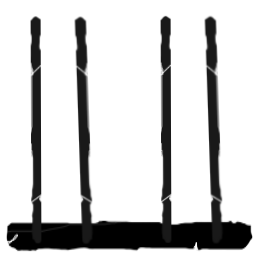
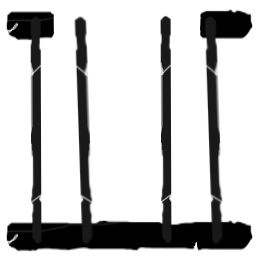
first gun

Changed region(s): [[0.7812, 0.0312, 1.0, 0.1562], [0.0, 0.0312, 0.2188, 0.1562]]

diff --git a/GameProject/GameLogic/Scripts/MachineParts/ShellHummerFactory.cs b/GameProject/GameLogic/Scripts/MachineParts/ShellHummerFactory.cs
@@ -7,18 +7,15 @@ using GameProject.GameMath;
 
 namespace GameProject.GameLogic.Scripts.MachineParts
 {
-    internal class WoodenPipeFactory : IMachinePartFactory
+    internal class ShellHummerFactory : IMachinePartFactory
     {
-        public string TexturePath => "Resources/machine_parts/wooden_pipe.png";
-        public bool HasBoxCollision => false;
+        public string TexturePath => "Resources/machine_parts/shell_hammer.png";
+        public bool HasBoxCollision => true;
         public bool Connectible => true;
-
-        public const float Width = 0.5f - BombFactory.Radius;
-
+        
         public void CreatePart(Vector2F cellPosition, float rotation, GameState gameState, GameEntity machine)
         {
             var sprite = machine.GetComponent<Sprite>();
-            var body = machine.GetComponent<PhysicsBody>();
             sprite.AddShape(gameState, new QuadRenderShape(1)
             {
                 ImagePath = TexturePath,
@@ -26,22 +23,7 @@ namespace GameProject.GameLogic.Scripts.MachineParts
                 Scale = Vector2F.One * MachineEditor.CellSize,
                 Rotation = rotation
             });
-            const float colliderOffset = 0.5f - Width * 0.5f;
-
-            var size = new Vector2F(1, Width).Rotate(rotation) * MachineEditor.CellSize;
-            var offset = colliderOffset * MachineEditor.CellSize * Vector2F.UnitY.Rotate(rotation);
-            body.AddCollider(new BoxCollider
-            {
-                Offset = cellPosition + offset,
-                Scaled = false,
-                Size = size
-            });
-            body.AddCollider(new BoxCollider
-            {
-                Offset = cellPosition - offset,
-                Scaled = false,
-                Size = size
-            });
+            machine.GetOrAddComponent<ShellHummerScript>().Hummers.Add(cellPosition);
         }
 
         public void CleanUp()
@@ -50,11 +32,11 @@ namespace GameProject.GameLogic.Scripts.MachineParts
 
         public GameEntity CreateDestroyedPart(Vector2F position, float rotation)
         {
-            var entity = new GameEntity {Position = position, Rotation = rotation};
+            var entity = new GameEntity{Position = position, Rotation = rotation};
             entity.AddComponent(new Explosive
             {
                 ForceExplodeOnStart = true,
-                ExplosionFragCount = 5,
+                ExplosionFragCount = 20,
                 ExplosionRadius = 1,
                 ExplosionFragImpulse = 0.01f,
                 MinLifetime = 2f,

diff --git a/GameProject/GameLogic/Scripts/ShellScript.cs b/GameProject/GameLogic/Scripts/ShellScript.cs
@@ -1,0 +1,66 @@
+using System;
+using System.Collections.Generic;
+using System.Linq;
+using FarseerPhysics.Dynamics;
+using FarseerPhysics.Dynamics.Joints;
+using FarseerPhysics.Factories;
+using GameProject.CoreEngine;
+using GameProject.Ecs;
+using GameProject.Ecs.Graphics;
+using GameProject.Ecs.Physics;
+using GameProject.GameGraphics.RenderShapes;
+using GameProject.GameMath;
+using Microsoft.Xna.Framework;
+
+namespace GameProject.GameLogic.Scripts
+{
+    internal class ShellScript : GameScript
+    {
+        public Vector2F Impulse { get; set; }
+
+        public event Action OnExplode;
+
+        public static readonly List<GameEntity> Shells = new List<GameEntity>();
+
+        private Body bodyA;
+        private Joint joint;
+        
+        public bool Exploded { get; set; }
+
+        protected override void Update()
+        {
+            var raycastDir = Impulse.Normalized * MachineEditor.CellSize * 0.55f;
+            if (bodyA is null)
+                GameState.PhysicsWorld.RayCast(ConnectProjectile, Entity.Position,
+                    Entity.Position + raycastDir.Rotate(Entity.Rotation));
+            if (!Exploded) return;
+
+            Entity.Destroy();
+            if (bodyA != null && joint != null)
+            {
+                GameState.PhysicsWorld.RemoveJoint(joint);
+                bodyA.ApplyLinearImpulse(Impulse);
+                Entity.GetComponent<PhysicsBody>().ApplyLinearImpulse(-Impulse);
+            }
+            OnExplode?.Invoke();
+        }
+
+        public override void Destroy(GameState state)
+        {
+            var shell = LevelUtility.CreatePhysicalRectangle(Entity.Position,
+                MachineEditor.CellSize * Vector2F.One * 0.9f, false, 1, false);
+            if (shell.GetComponent<Sprite>().Shapes.First() is QuadRenderShape shape)
+                shape.ImagePath = "Resources/machine_parts/shell.png";
+            GameState.AddEntity(shell);
+        }
+
+        private float ConnectProjectile(Fixture fixture, Vector2 point1, Vector2 point2, float d)
+        {
+            bodyA = fixture.Body;
+            var bodyB = Entity.GetComponent<PhysicsBody>().FarseerBody;
+            joint = JointFactory.CreateDistanceJoint(GameState.PhysicsWorld, bodyA,
+                bodyB, bodyA.Position, bodyB.Position);
+            return 0.0f;
+        }
+    }
+}

diff --git a/GameProject/GameLogic/Scripts/MachineParts/OpenWoodenPipeFactory.cs b/GameProject/GameLogic/Scripts/MachineParts/OpenWoodenPipeFactory.cs
@@ -13,8 +13,6 @@ namespace GameProject.GameLogic.Scripts.MachineParts
         public bool HasBoxCollision => false;
         public bool Connectible => true;
 
-        private const float Width = 0.1f;
-
         public void CreatePart(Vector2F cellPosition, float rotation, GameState gameState, GameEntity machine)
         {
             var sprite = machine.GetComponent<Sprite>();
@@ -26,13 +24,32 @@ namespace GameProject.GameLogic.Scripts.MachineParts
                 Scale = Vector2F.One * MachineEditor.CellSize,
                 Rotation = rotation
             });
-            const float colliderOffset = 0.5f - Width * 0.5f;
+            const float colliderOffsetY = 0.5f - WoodenPipeFactory.Width * 0.5f;
+            const float colliderOffsetX = 0.5f - BombFactory.Radius * 0.5f;
+
+            var sizeBottom = new Vector2F(1, WoodenPipeFactory.Width).Rotate(rotation) * MachineEditor.CellSize;
+            var sizeTop = new Vector2F(0.5f - BombFactory.Radius, WoodenPipeFactory.Width)
+                .Rotate(rotation) * MachineEditor.CellSize;
+            var offsetY = colliderOffsetY * MachineEditor.CellSize * Vector2F.UnitY.Rotate(rotation);
+            var offsetX = colliderOffsetX * MachineEditor.CellSize * Vector2F.UnitX.Rotate(rotation);
             
             body.AddCollider(new BoxCollider
             {
-                Offset = cellPosition + colliderOffset * MachineEditor.CellSize * Vector2F.UnitY.Rotate(rotation),
+                Offset = cellPosition - offsetY - offsetX,
                 Scaled = false,
-                Size = new Vector2F(1, Width).Rotate(rotation) * MachineEditor.CellSize
+                Size = sizeTop
+            });
+            body.AddCollider(new BoxCollider
+            {
+                Offset = cellPosition - offsetY + offsetX,
+                Scaled = false,
+                Size = sizeTop
+            });
+            body.AddCollider(new BoxCollider
+            {
+                Offset = cellPosition + offsetY,
+                Scaled = false,
+                Size = sizeBottom
             });
         }
 

diff --git a/GameProject/GameLogic/Scripts/MachineParts/ShellFactory.cs b/GameProject/GameLogic/Scripts/MachineParts/ShellFactory.cs
@@ -1,0 +1,48 @@
+using System.Collections.Generic;
+using System.Linq;
+using GameProject.CoreEngine;
+using GameProject.Ecs;
+using GameProject.Ecs.Graphics;
+using GameProject.Ecs.Physics;
+using GameProject.GameGraphics.RenderShapes;
+using GameProject.GameMath;
+
+namespace GameProject.GameLogic.Scripts.MachineParts
+{
+    internal class ShellFactory : IMachinePartFactory
+    {
+        public string TexturePath => "Resources/machine_parts/shell.png";
+        public bool HasBoxCollision => false;
+        public bool Connectible => false;
+        
+        private readonly List<Vector2F> destroyedCells = new List<Vector2F>();
+
+        public void CreatePart(Vector2F cellPosition, float rotation, GameState gameState, GameEntity machine)
+        {
+            if (destroyedCells.Any(c => c == cellPosition))
+                return;
+            var shell = LevelUtility.CreatePhysicalRectangle(cellPosition.TransformBy(machine.GlobalTransform),
+                MachineEditor.CellSize * Vector2F.One * 0.9f);
+            shell.GetComponent<PhysicsBody>().Colliders.First().Density = 5;
+            if (shell.GetComponent<Sprite>().Shapes.First() is QuadRenderShape shape)
+                shape.ImagePath = TexturePath;
+            ShellScript.Shells.Add(shell);
+            gameState.AddEntity(shell);
+            var explosive = new ShellScript {Impulse = Vector2F.UnitX * 7f};
+            explosive.OnExplode += () => destroyedCells.Add(cellPosition);
+            shell.AddComponent(explosive);
+        }
+
+        public void CleanUp()
+        {
+            foreach (var shell in ShellScript.Shells)
+                shell.Destroy();
+            ShellScript.Shells.Clear();
+        }
+
+        public GameEntity CreateDestroyedPart(Vector2F position, float rotation)
+        {
+            return null;
+        }
+    }
+}

diff --git a/GameProject/GameLogic/Scripts/MachineParts/BombFactory.cs b/GameProject/GameLogic/Scripts/MachineParts/BombFactory.cs
@@ -7,8 +7,9 @@ using GameProject.GameMath;
 
 namespace GameProject.GameLogic.Scripts.MachineParts
 {
-    internal class BombBoxFactory : IMachinePartFactory
+    internal class BombFactory : IMachinePartFactory
     {
+        public const float Radius = 0.3f * 0.8f;
         public string TexturePath => "Resources/machine_parts/bomb_box.png";
         public bool HasBoxCollision => false;
         public bool Connectible => false;
@@ -21,8 +22,8 @@ namespace GameProject.GameLogic.Scripts.MachineParts
             if (destroyedCells.Any(c => c == cellPosition))
                 return;
             var bomb = LevelUtility.CreateWheel(cellPosition + machine.Position,
-                0.3f * MachineEditor.CellSize, TexturePath, 0.7f);
-            bomb.GetComponent<PhysicsBody>().Colliders.First().Density = 5;
+                Radius / 0.8f * MachineEditor.CellSize, TexturePath, 0.7f);
+            //bomb.GetComponent<PhysicsBody>().Colliders.First().Density = 5;
             cleanupList.Add(bomb);
             gameState.AddEntity(bomb);
             var explosive = new Explosive {Strength = 1};

diff --git a/GameProject/GameLogic/Scripts/ShellHummerScript.cs b/GameProject/GameLogic/Scripts/ShellHummerScript.cs
@@ -1,0 +1,29 @@
+using System.Collections.Generic;
+using System.Linq;
+using System.Windows.Forms;
+using GameProject.CoreEngine;
+using GameProject.Ecs.Physics;
+using GameProject.GameInput;
+using GameProject.GameMath;
+using Microsoft.Xna.Framework;
+
+namespace GameProject.GameLogic.Scripts
+{
+    internal class ShellHummerScript : GameScript
+    {
+        public readonly List<Vector2F> Hummers = new List<Vector2F>();
+
+        protected override void Update()
+        {
+            if (GameState.Keyboard[Keys.F] != KeyState.Down)
+                return;
+
+            foreach (var shell in Hummers
+                .Select(hummer => (Vector2) hummer.TransformBy(Entity.GlobalTransform))
+                .Select(point => point + Vector2.UnitX * MachineEditor.CellSize)
+                .SelectMany(point => ShellScript.Shells.Where(shell => shell
+                    .GetComponent<PhysicsBody>().FarseerBody.FixtureList.First().TestPoint(ref point))))
+                shell.GetComponent<ShellScript>().Exploded = true;
+        }
+    }
+}

diff --git a/GameProject/GameLogic/LevelUtility.cs b/GameProject/GameLogic/LevelUtility.cs
@@ -44,13 +44,14 @@ namespace GameProject.GameLogic
 
         [MethodImpl(MethodImplOptions.AggressiveInlining)]
         public static GameEntity CreatePhysicalRectangle(Vector2F position, Vector2F size,
-            bool isStatic = false, float density = 1)
+            bool isStatic = false, float density = 1, bool hasCollision = true)
         {
             var entity = new GameEntity();
             entity.AddComponent(new Sprite(new QuadRenderShape(1)));
             var body = entity.AddComponent<PhysicsBody>();
             body.IsStatic = isStatic;
-            body.AddCollider(new BoxCollider());
+            if (hasCollision)
+                body.AddCollider(new BoxCollider());
             entity.Position = position;
             entity.Scale = size;
             entity.FlushComponents();

diff --git a/GameProject/GameLogic/Scripts/CameraMovement.cs b/GameProject/GameLogic/Scripts/CameraMovement.cs
@@ -16,7 +16,7 @@ namespace GameProject.GameLogic.Scripts
         {
             var mousePosition = GameState.Mouse.ScreenPosition;
             var viewWidth = GameState.RendererWrite.Camera.ViewWidth;
-            
+
             switch (GameState.Mouse[MouseButtons.Right])
             {
                 case KeyState.Down:
@@ -29,7 +29,8 @@ namespace GameProject.GameLogic.Scripts
                     break;
             }
 
-            GameState.RendererWrite.Camera.ViewWidth -= ZoomFactor * GameState.Mouse.WheelDelta * viewWidth;
+            var v = GameState.RendererWrite.Camera.ViewWidth - ZoomFactor * GameState.Mouse.WheelDelta * viewWidth;
+            GameState.RendererWrite.Camera.ViewWidth = MathF.Clamp(v, 1.5f, 30f);
         }
     }
 }

diff --git a/GameProject/GameLogic/Scripts/MachineMenu.cs b/GameProject/GameLogic/Scripts/MachineMenu.cs
@@ -17,9 +17,11 @@ namespace GameProject.GameLogic.Scripts
             null,
             new WoodenBoxFactory(),
             new SmallWheelFactory(),
-            new BombBoxFactory(),
+            new BombFactory(),
             new WoodenPipeFactory(),
-            new OpenWoodenPipeFactory()
+            new OpenWoodenPipeFactory(),
+            new ShellFactory(),
+            new ShellHummerFactory()
         };
 
         private MachineMenuResponse Response { get; }

diff --git a/GameProject/Ecs/GameEntity.cs b/GameProject/Ecs/GameEntity.cs
@@ -290,6 +290,11 @@ namespace GameProject.Ecs
             return HasComponent(typeof(T));
         }
 
+        public T GetOrAddComponent<T>() where T : class, IGameComponent, new()
+        {
+            return HasComponent<T>() ? GetComponent<T>() : AddComponent<T>();
+        }
+
         /// <summary>
         ///     Connect two entities - a child and a parent
         /// </summary>
